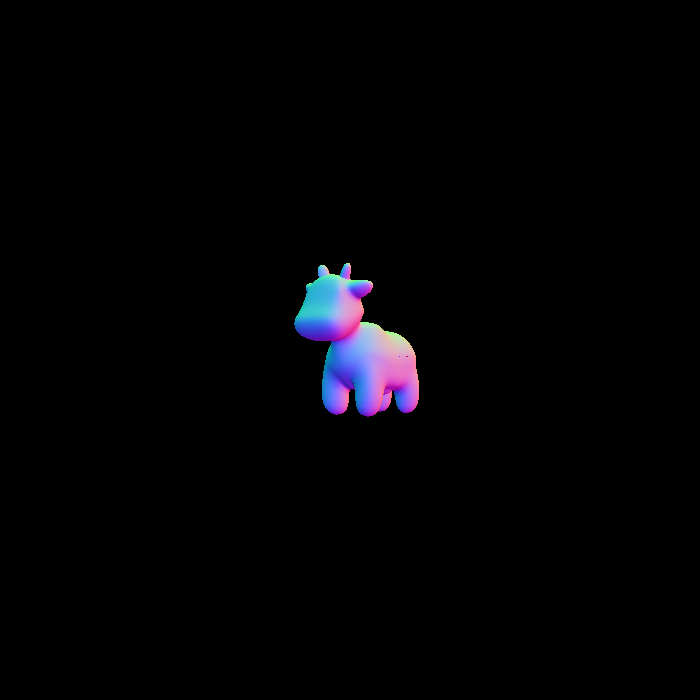
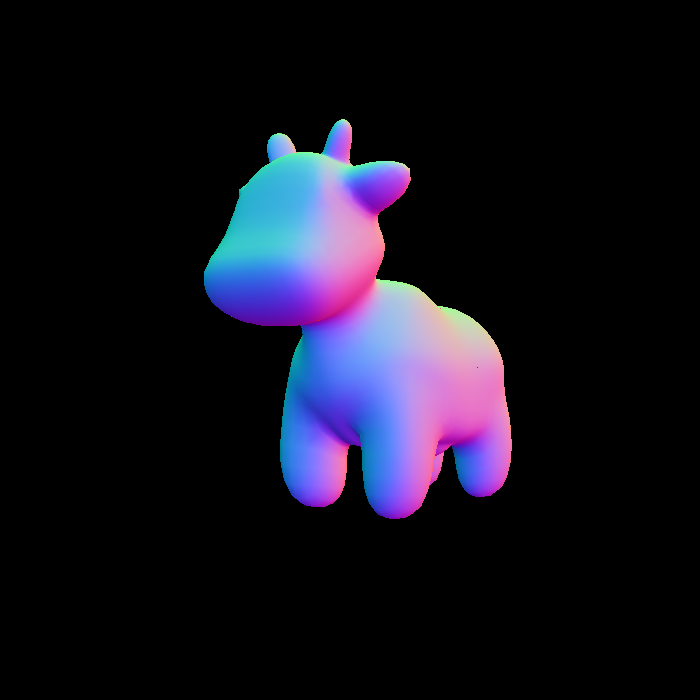
Add Phong Fragment Shader，fix size mistake

Changed region(s): [[0.27, 0.15, 0.75, 0.75]]

diff --git a/Homework3/Homework3/src/main.cpp b/Homework3/Homework3/src/main.cpp
@@ -203,7 +203,17 @@ Eigen::Vector3f phong_fragment_shader(const fragment_shader_payload& payload)
     {
         // TODO: For each light source in the code, calculate what the *ambient*, *diffuse*, and *specular* 
         // components are. Then, accumulate that result on the *result_color* object.
+        Eigen::Vector3f I_RR = light.intensity / (light.position - point).squaredNorm();
+        Eigen::Vector3f light_dir = (light.position - point).normalized();
+        Eigen::Vector3f view_dir = (eye_pos - point).normalized();
+        Eigen::Vector3f diffuse = kd.cwiseProduct(I_RR) * std::max(0.f, light_dir.dot(normal));
         
+        Eigen::Vector3f half_dir = (light_dir + view_dir).normalized();
+        Eigen::Vector3f specular = ks.cwiseProduct(I_RR) * std::pow(std::max(0.f, half_dir.dot(normal)), p);
+
+        Eigen::Vector3f ambient = ka.cwiseProduct(amb_light_intensity);
+
+        result_color+= diffuse + specular + ambient;
     }
 
     return result_color * 255.f;
@@ -307,7 +317,7 @@ int main(int argc, const char** argv)
     any_axis.normalize();
     float any_angle = 0;// The angle rotate around z-axis
     float x_pos = 0;
-    float size = 1.0f;
+    float size = 2.5f;
 
     
     bool command_line = false;
